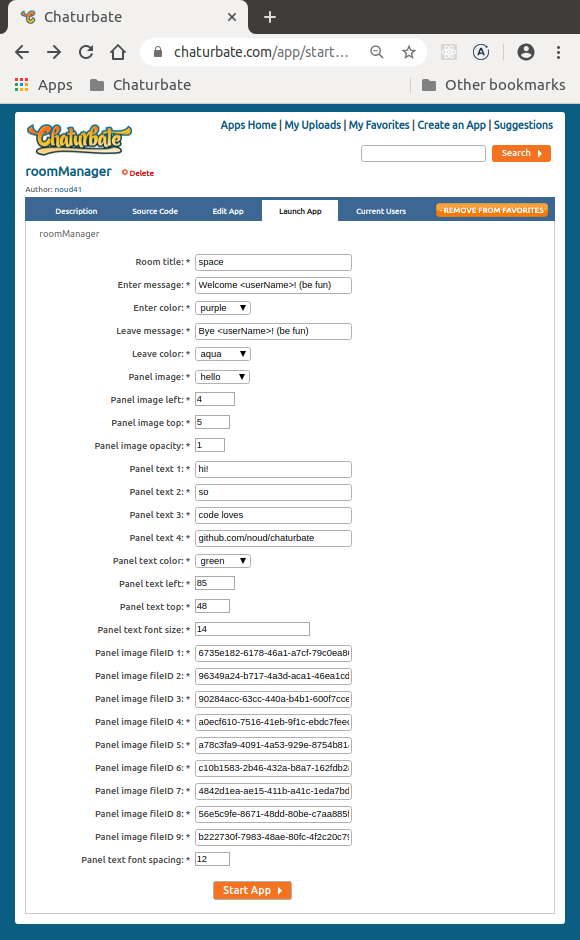
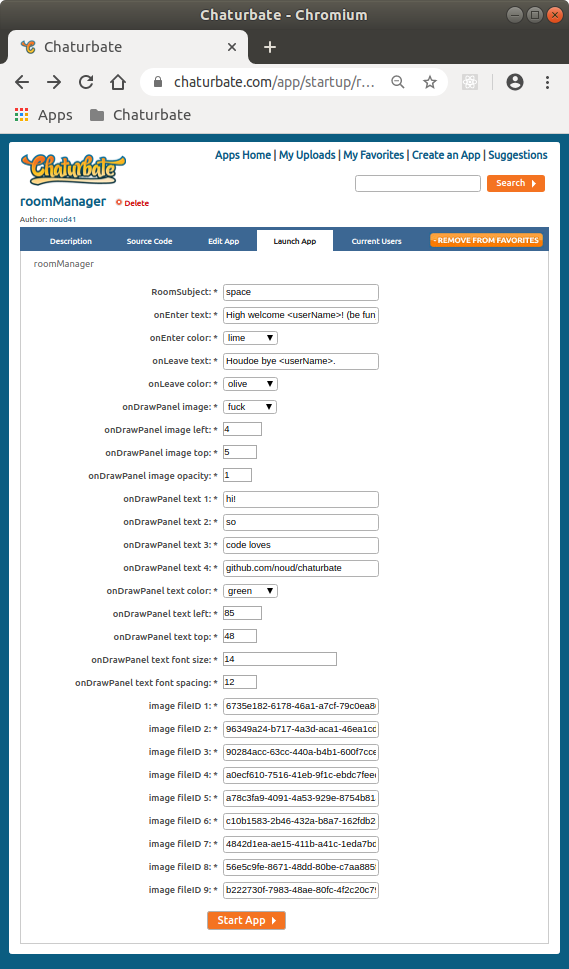
roomManager variable names

Changed region(s): [[0.0, 0.0, 1.0, 0.9872]]

diff --git a/noud41/roomManager.js b/noud41/roomManager.js
@@ -35,6 +35,8 @@ const colorCodeBlue = '#0000FF';
 const chatTextMaxLength = 270;
 const wordSeparator = " ";
 
+const templateUserName = '<userName>';
+
 // Panel
 
 const panelImageDefaultValue = 'hello';
@@ -95,12 +97,12 @@ cb.settings_choices = [
 
     // Room
 
-    {name: 'room', type: 'str', minLength: 1, maxLength: 70, label: 'RoomSubject'},
+    {name: 'subject', type: 'str', minLength: 1, maxLength: 70, label: 'RoomSubject'},
 
     // onHandles
 
-    {name: 'enterMessage', type: 'str', minLength: 0, maxLength: chatTextMaxLength, label: 'Enter message'},
-    {name: 'enterColor', type:'choice', label: 'Enter color',
+    {name: 'onEnter_Text', type: 'str', minLength: 0, maxLength: chatTextMaxLength, label: 'onEnter text'},
+    {name: 'onEnter_Color', type:'choice', label: 'onEnter color',
         choice1: colorAqua,
         choice2: colorBlack,
         choice3: colorBlue,
@@ -120,8 +122,8 @@ cb.settings_choices = [
         choice17: colorYellow,
         defaultValue: colorCodeGreen
     },
-    {name: 'leaveMessage', type: 'str', minLength: 0, maxLength: chatTextMaxLength, label: 'Leave message'},
-    {name: 'leaveColor', type:'choice', label: 'Leave color',
+    {name: 'onLeave_Text', type: 'str', minLength: 0, maxLength: chatTextMaxLength, label: 'onLeave text'},
+    {name: 'onLeave_Color', type:'choice', label: 'onLeave color',
         choice1: colorAqua,
         choice2: colorBlack,
         choice3: colorBlue,
@@ -142,11 +144,11 @@ cb.settings_choices = [
         defaultValue: colorCodeBlue
     },
 
-    // Panel
+    // onDrawPanel
 
-    // Panel Image
+    // onDrawPanel Image
 
-    {name: 'panelImage', type:'choice', label: 'Panel image',
+    {name: 'onDrawPanel_Image', type:'choice', label: 'onDrawPanel image',
         choice1: 'ass',
         choice2: 'brb',
         choice3: 'fuck',
@@ -158,17 +160,17 @@ cb.settings_choices = [
         choice9: 'wink',
         defaultValue: panelImageDefaultValue
     },
-    {name: 'panelImageLeft', type: 'int', minValue: panelImageTopMin, maxValue: panelImageTopMax, defaultValue: 0, label: 'Panel image left'},
-    {name: 'panelImageTop', type: 'int', minValue: panelImageLeftMin, maxValue: panelImageLeftMax, defaultValue: 0, label: 'Panel image top'},
-    {name: 'panelImageOpacity', type: 'int', minValue: 0, maxValue: 1, defaultValue: 1, label: 'Panel image opacity'},
+    {name: 'onDrawPanel_ImageLeft', type: 'int', minValue: panelImageTopMin, maxValue: panelImageTopMax, defaultValue: 0, label: 'onDrawPanel image left'},
+    {name: 'onDrawPanel_ImageTop', type: 'int', minValue: panelImageLeftMin, maxValue: panelImageLeftMax, defaultValue: 0, label: 'onDrawPanel image top'},
+    {name: 'onDrawPanel_ImageOpacity', type: 'int', minValue: 0, maxValue: 1, defaultValue: 1, label: 'onDrawPanel image opacity'},
 
-    // Panel Text
+    // onDrawPanel Text
 
-    {name: 'panelText1', defaultValue: panelText1, type: 'str', minLength: 0, maxLength: panelTextMax, label: 'Panel text 1'},
-    {name: 'panelText2', defaultValue: panelText2, type: 'str', minLength: 0, maxLength: panelTextMax, label: 'Panel text 2'},
-    {name: 'panelText3', defaultValue: panelText3, type: 'str', minLength: 0, maxLength: panelTextMax, label: 'Panel text 3'},
-    {name: 'panelText4', defaultValue: panelText4, type: 'str', minLength: 0, maxLength: panelTextMax, label: 'Panel text 4'},
-    {name: 'panelTextColor', type:'choice', label: 'Panel text color',
+    {name: 'onDrawPanel_Text1', defaultValue: panelText1, type: 'str', minLength: 0, maxLength: panelTextMax, label: 'onDrawPanel text 1'},
+    {name: 'onDrawPanel_Text2', defaultValue: panelText2, type: 'str', minLength: 0, maxLength: panelTextMax, label: 'onDrawPanel text 2'},
+    {name: 'onDrawPanel_Text3', defaultValue: panelText3, type: 'str', minLength: 0, maxLength: panelTextMax, label: 'onDrawPanel text 3'},
+    {name: 'onDrawPanel_Text4', defaultValue: panelText4, type: 'str', minLength: 0, maxLength: panelTextMax, label: 'onDrawPanel text 4'},
+    {name: 'onDrawPanel_TextColor', type:'choice', label: 'onDrawPanel text color',
         choice1: colorAqua,
         choice2: colorBlack,
         choice3: colorBlue,
@@ -188,25 +190,25 @@ cb.settings_choices = [
         choice17: colorYellow,
         defaultValue: panelTextColorDefaultValue
     },
-    {name: 'panelTextLeft', type: 'int', minValue: panelTextTopMin, maxValue: panelTextTopMax, defaultValue: 0, label: 'Panel text left'},
-    {name: 'panelTextTop', type: 'int', minValue: panelTextLeftMin, maxValue: panelTextLeftMax, defaultValue: 0, label: 'Panel text top'},
-    {name: 'panelTextFontSize', type: 'int', label: 'Panel text font size'},
-
-    // Panel image fileIDs
-
-    {name: 'image1fileID', defaultValue: image1fileIDDefaultValue, type: 'str', minLength: 0, maxLength: imagefileIDMax, label: 'Panel image fileID 1'},
-    {name: 'image2fileID', defaultValue: image2fileIDDefaultValue, type: 'str', minLength: 0, maxLength: imagefileIDMax, label: 'Panel image fileID 2'},
-    {name: 'image3fileID', defaultValue: image3fileIDDefaultValue, type: 'str', minLength: 0, maxLength: imagefileIDMax, label: 'Panel image fileID 3'},
-    {name: 'image4fileID', defaultValue: image4fileIDDefaultValue, type: 'str', minLength: 0, maxLength: imagefileIDMax, label: 'Panel image fileID 4'},
-    {name: 'image5fileID', defaultValue: image5fileIDDefaultValue, type: 'str', minLength: 0, maxLength: imagefileIDMax, label: 'Panel image fileID 5'},
-    {name: 'image6fileID', defaultValue: image6fileIDDefaultValue, type: 'str', minLength: 0, maxLength: imagefileIDMax, label: 'Panel image fileID 6'},
-    {name: 'image7fileID', defaultValue: image7fileIDDefaultValue, type: 'str', minLength: 0, maxLength: imagefileIDMax, label: 'Panel image fileID 7'},
-    {name: 'image8fileID', defaultValue: image8fileIDDefaultValue, type: 'str', minLength: 0, maxLength: imagefileIDMax, label: 'Panel image fileID 8'},
-    {name: 'image9fileID', defaultValue: image9fileIDDefaultValue, type: 'str', minLength: 0, maxLength: imagefileIDMax, label: 'Panel image fileID 9'},
+    {name: 'onDrawPanel_TextLeft', type: 'int', minValue: panelTextTopMin, maxValue: panelTextTopMax, defaultValue: 0, label: 'onDrawPanel text left'},
+    {name: 'onDrawPanel_TextTop', type: 'int', minValue: panelTextLeftMin, maxValue: panelTextLeftMax, defaultValue: 0, label: 'onDrawPanel text top'},
+    {name: 'onDrawPanel_TextFontSize', type: 'int', label: 'onDrawPanel text font size'},
 
     // design
 
-    {name: 'panelTextFontSpacing', type: 'int', minValue: 12, maxValue: 46, defaultValue: 12, label: 'Panel text font spacing'},
+    {name: 'onDrawPanel_TextFontSpacing', type: 'int', minValue: 12, maxValue: 46, defaultValue: 12, label: 'onDrawPanel text font spacing'},
+
+    // image fileIDs
+
+    {name: 'image1fileID', defaultValue: image1fileIDDefaultValue, type: 'str', minLength: 0, maxLength: imagefileIDMax, label: 'image fileID 1'},
+    {name: 'image2fileID', defaultValue: image2fileIDDefaultValue, type: 'str', minLength: 0, maxLength: imagefileIDMax, label: 'image fileID 2'},
+    {name: 'image3fileID', defaultValue: image3fileIDDefaultValue, type: 'str', minLength: 0, maxLength: imagefileIDMax, label: 'image fileID 3'},
+    {name: 'image4fileID', defaultValue: image4fileIDDefaultValue, type: 'str', minLength: 0, maxLength: imagefileIDMax, label: 'image fileID 4'},
+    {name: 'image5fileID', defaultValue: image5fileIDDefaultValue, type: 'str', minLength: 0, maxLength: imagefileIDMax, label: 'image fileID 5'},
+    {name: 'image6fileID', defaultValue: image6fileIDDefaultValue, type: 'str', minLength: 0, maxLength: imagefileIDMax, label: 'image fileID 6'},
+    {name: 'image7fileID', defaultValue: image7fileIDDefaultValue, type: 'str', minLength: 0, maxLength: imagefileIDMax, label: 'image fileID 7'},
+    {name: 'image8fileID', defaultValue: image8fileIDDefaultValue, type: 'str', minLength: 0, maxLength: imagefileIDMax, label: 'image fileID 8'},
+    {name: 'image9fileID', defaultValue: image9fileIDDefaultValue, type: 'str', minLength: 0, maxLength: imagefileIDMax, label: 'image fileID 9'},
 ];
 
 cb.onDrawPanel(function (user) {
@@ -223,24 +225,24 @@ cb.onDrawPanel(function (user) {
         wink: cb.settings.image9fileID
     };
 
-    const image = images[cb.settings.panelImage];
-    const color = cb.settings.panelTextColor;
-    const fontSize = cb.settings.panelTextFontSize;
-    const fontSpacing = cb.settings.panelTextFontSpacing;
+    const image = images[cb.settings.onDrawPanel_Image];
+    const color = cb.settings.onDrawPanel_TextColor;
+    const fontSize = cb.settings.onDrawPanel_TextFontSize;
+    const fontSpacing = cb.settings.onDrawPanel_TextFontSpacing;
 
     // imageMargin and text positioning
-    const top = cb.settings.panelTextTop;
-    const left = cb.settings.panelTextLeft;
+    const top = cb.settings.onDrawPanel_TextTop;
+    const left = cb.settings.onDrawPanel_TextLeft;
     // @todo make this variable
     // const imageMargin = 150;
-    // const left = cb.settings.panelTextLeft + imageMargin;
+    // const left = cb.settings.onDrawPanel_TextLeft + imageMargin;
 
     const imageLayer = {
         'type': 'image',
         'fileID': image,
-        'left':  cb.settings.panelImageLeft,
-        'top': cb.settings.panelImageTop,
-        'opacity': cb.settings.panelImageOpacity
+        'left':  cb.settings.onDrawPanel_ImageLeft,
+        'top': cb.settings.onDrawPanel_ImageTop,
+        'opacity': cb.settings.onDrawPanel_ImageOpacity
     };
 
     var layers = [];
@@ -249,16 +251,16 @@ cb.onDrawPanel(function (user) {
         var text = '';
         switch(i) {
             case 0:
-                text = cb.settings.panelText4;
+                text = cb.settings.onDrawPanel_Text4;
                 break;
             case 1:
-                text = cb.settings.panelText3;
+                text = cb.settings.onDrawPanel_Text3;
                 break;
             case 2:
-                text = cb.settings.panelText2;
+                text = cb.settings.onDrawPanel_Text2;
                 break;
             case 3:
-                text = cb.settings.panelText1;
+                text = cb.settings.onDrawPanel_Text1;
                 break;
         }
         layers.push({
@@ -282,11 +284,11 @@ cb.onDrawPanel(function (user) {
 // onHandles
 
 cb.onEnter(function (user) {
-    chatNotice(cb.settings.enterMessage, user['user'], cb.settings.enterColor)
+    chatNotice(cb.settings.onEnter_Text, user['user'], cb.settings.onEnter_Color)
 });
 
 cb.onLeave(function (user) {
-    chatNotice(cb.settings.leaveMessage, user['user'], cb.settings.leaveColor)
+    chatNotice(cb.settings.onLeave_Text, user['user'], cb.settings.onLeave_Color)
 });
 
 cb.onMessage(function (msg) {
@@ -294,7 +296,7 @@ cb.onMessage(function (msg) {
 
     if (msg['user'] == cb.room_slug) {
         if (msg['m'].match(/\/changeRoomSubject/i)) {
-            cb.settings.room = params;
+            cb.settings.subject = params;
             cb.changeRoomSubject(params)
         }
 
@@ -305,53 +307,48 @@ cb.onMessage(function (msg) {
             cb.limitCam_stop();
         }
         
-        if (msg['m'].match(/\/drawPanel/i)) {
+        if (msg['m'].match(/\/onDrawPanel/i)) {
             cb.drawPanel();
         }
-
-        if (msg['m'].match(/\/drawPanelImage/i)) {
-            cb.settings.panelImage = params;
+        if (msg['m'].match(/\/onDrawPanel_Image/i)) {
+            cb.settings.onDrawPanel_Image = params;
         }
-
-        if (msg['m'].match(/\/drawPanelTextColor/i)) {
-            cb.settings.panelTextColor = params;
+        if (msg['m'].match(/\/onDrawPanel_TextColor/i)) {
+            cb.settings.onDrawPanel_TextColor = params;
         }
-
-        if (msg['m'].match(/\/onEnterText/i)) {
-            cb.settings.enterMessage = params;
-        }
-        if (msg['m'].match(/\/onEnterColor/i)) {
-            cb.settings.enterColor = params;
-        }
-        if (msg['m'].match(/\/onLeaveText/i)) {
-            cb.settings.leaveMessage = params;
-        }
-        if (msg['m'].match(/\/onLeaveColor/i)) {
-            cb.settings.leaveColor = params;
-        }
-
-        if (msg['m'].match(/\/drawPanelTextColor/i)) {
-            cb.settings.panelTextColor = params;
-        }
-
-        if (msg['m'].match(/\/drawPanelText/i)) {
+        if (msg['m'].match(/\/onDrawPanel_Text/i)) {
             const line = getFirstParam(params);
             params = getParams(params);
             switch(line) {
                 case '1':
-                    cb.settings.panelText1 = params;
+                    cb.settings.onDrawPanel_Text1 = params;
                     break;
                 case '2':
-                    cb.settings.panelText2 = params;
+                    cb.settings.onDrawPanel_Text2 = params;
                     break;
                 case '3':
-                    cb.settings.panelText3 = params;
+                    cb.settings.onDrawPanel_Text3 = params;
                     break;
                 case '4':
-                    cb.settings.panelText4 = params;
+                    cb.settings.onDrawPanel_Text4 = params;
                     break;
             }
         }
+
+        if (msg['m'].match(/\/onEnter_Text/i)) {
+            cb.settings.onEnter_Text = params;
+        }
+        if (msg['m'].match(/\/onEnter_Color/i)) {
+            cb.settings.onEnter_Color = params;
+        }
+        
+        if (msg['m'].match(/\/onLeave_Text/i)) {
+            cb.settings.onLeave_Text = params;
+        }
+        if (msg['m'].match(/\/onLeave_Color/i)) {
+            cb.settings.onLeave_Color = params;
+        }
+
     }
 });
 
@@ -364,7 +361,7 @@ cb.onTip(function (tip) {
 
 function chatNotice(message, user) {
     const userName = getUserName(user);
-    cb.chatNotice(message.replace('<userName>', userName), null, null, cb.settings.enterColor);
+    cb.chatNotice(message.replace(templateUserName, userName), null, null, cb.settings.onEnterColor);
 }
 
 function getUserName(user) {
@@ -392,6 +389,6 @@ function showAppAd(username) {
 }
 
 function init() {
-    cb.changeRoomSubject(cb.settings.room);
+    cb.changeRoomSubject(cb.settings.subject);
 }
 init();

diff --git a/noud41/roomManager.md b/noud41/roomManager.md
@@ -12,29 +12,29 @@
 ```
 /changeRoomSubject new_subject
 
-/onEnterText anyMessage with <userName>
-/onEnterColor [yellow|red|green|blue|black]
-
-/onLeaveText anyMessage with <userName>
-/onLeaveColor [yellow|red|green|blue|black]
-
-/limitCam_start awayMessage
+/limitCam_start awayText
 /limitCam_stop
 
-/drawPanel
-/drawPanelTemplate image_template
+/onEnter_Text anyText with <userName>
+/onEnter_Color [yellow|red|green|blue|black]
 
-/drawPanelImageTop 5
-/drawPanelImageLeft 61
-/drawPanelImage [ass|brb|fuck|hello|kisses|shower|suck|what|wink]
-/drawPanelImageTop 5
-/drawPanelImageLeft 61
+/onDrawPanel_ImageTop 5
+/onDrawPanel_ImageLeft 61
+/onDrawPanel_Image [ass|brb|fuck|hello|kisses|shower|suck|what|wink]
+/onDrawPanel_ImageTop 5
+/onDrawPanel_ImageLeft 61
 
-/drawPanelTextColor [yellow|red|green|blue|black]
-/drawPanelText 1 anyStartingText
-/drawPanelText 2 anyMoreText
-/drawPanelText 3 anyMoreMoreText
-/drawPanelText 4 anyEndingText
+/onDrawPanel_TextColor [yellow|red|green|blue|black]
+/onDrawPanel_Text 1 anyStartingText
+/onDrawPanel_Text 2 anyMoreText
+/onDrawPanel_Text 3 anyMoreMoreText
+/onDrawPanel_Text 4 anyEndingText
+
+/onLeave_Text anyText with <userName>
+/onLeave_Color [yellow|red|green|blue|black]
+
+/onDrawPanel
+/onDrawPanelTemplate image_template
 ```
 ## Launch App
 
